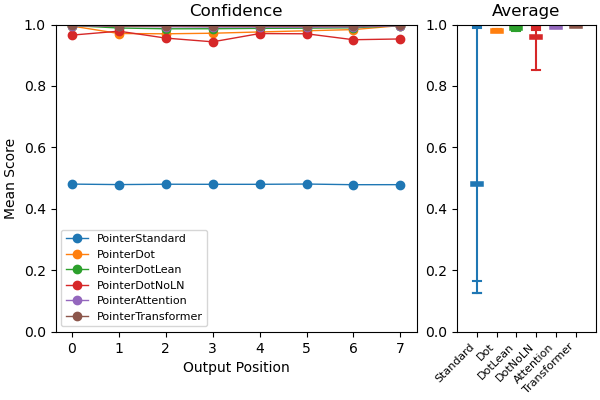
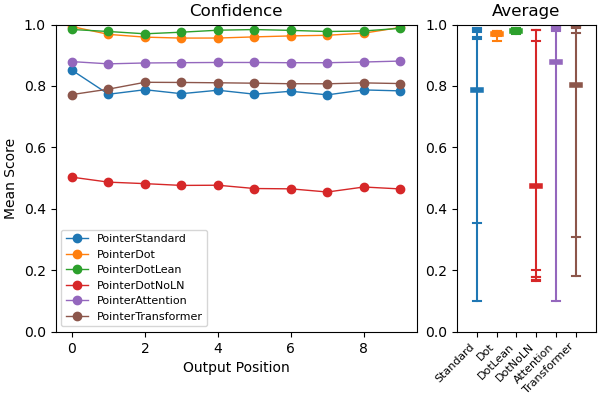
sequencer SL experiments

diff --git a/experiments/ptrArchComp_sequencer_SL.py b/experiments/ptrArchComp_sequencer_SL.py
@@ -1,0 +1,257 @@
+import sys
+import os
+
+# add path that contains the dominoes package
+mainPath = os.path.dirname(os.path.abspath(__file__)) + "/.."
+sys.path.append(mainPath)
+
+# standard imports
+from copy import copy
+import argparse
+from pathlib import Path
+from tqdm import tqdm
+import numpy as np
+import scipy as sp
+import matplotlib.pyplot as plt
+import matplotlib as mpl
+import torch
+import torch.cuda as torchCuda
+
+# dominoes package
+from dominoes import functions as df
+from dominoes import datasets
+from dominoes import training
+from dominoes import transformers
+
+device = 'cuda' if torchCuda.is_available() else 'cpu'
+
+# general variables for experiment
+POINTER_METHODS = ['PointerStandard', 'PointerDot', 'PointerDotLean', 'PointerDotNoLN', 'PointerAttention', 'PointerTransformer']
+
+# can edit this for each machine it's being used on
+savePath = Path('.') / 'experiments' / 'savedNetworks'
+resPath = Path(mainPath) / 'experiments' / 'savedResults'
+prmsPath = Path(mainPath) / 'experiments' / 'savedParameters'
+figsPath = Path(mainPath) / 'docs' / 'media'
+
+for path in (resPath, prmsPath, figsPath, savePath):
+    if not(path.exists()):
+        path.mkdir()
+        
+# method for returning the name of the saved network parameters (different save for each possible opponent)
+def getFileName(extra=None):
+    baseName = "ptrArchComp_sequencer_SL"
+    if extra is not None:
+        baseName = baseName + f"_{extra}"
+    return baseName
+
+def handleArguments():
+    parser = argparse.ArgumentParser(description='Run pointer dominoe sequencing experiment.')
+    parser.add_argument('-hd','--highest-dominoe', type=int, default=9, help='the highest dominoe in the board')
+    parser.add_argument('-hs','--hand-size', type=int, default=12, help='the maximum tokens per sequence')
+    parser.add_argument('-bs','--batch-size',type=int, default=128, help='number of sequences per batch')
+    parser.add_argument('-ne','--train-epochs',type=int, default=12000, help='the number of training epochs')
+    parser.add_argument('-te','--test-epochs',type=int, default=1000, help='the number of testing epochs')
+    parser.add_argument('-nr','--num-runs',type=int, default=8, help='how many runs for each network to train')
+
+    parser.add_argument('--embedding_dim', type=int, default=96, help='the dimensions of the embedding')
+    parser.add_argument('--heads', type=int, default=8, help='the number of heads in transformer layers')
+    parser.add_argument('--expansion', type=int, default=2, help='the expansion at the MLP part of the transformer')
+    parser.add_argument('--encoding-layers', type=int, default=2, help='the number of stacked transformers in the encoder')
+    parser.add_argument('--greedy', default=False, action='store_true', help='if used, will generate greedy predictions of each step rather than probability-weighted predictions')
+    parser.add_argument('--justplot', default=False, action='store_true', help='if used, will only plot the saved results (results have to already have been run and saved)')
+    parser.add_argument('--nosave', default=False, action='store_true')
+    
+    args = parser.parse_args()
+
+    return args
+    
+    
+def trainTestModel():
+    # get values from the argument parser
+    highestDominoe = args.highest_dominoe
+    listDominoes = df.listDominoes(highestDominoe)
+
+    handSize = args.hand_size
+    batchSize = args.batch_size
+    null_token = True # using a null token to indicate end of line
+    available_token = True # using available token to indicate which value to start on 
+    num_output = copy(handSize)+1 # always require end on null token
+    ignore_index = -1
+
+    # other batch parameters
+    batchSize = args.batch_size
+    
+    # network parameters
+    input_dim = (2 if not(available_token) else 3)*(highestDominoe+1) + (1 if null_token else 0)
+    embedding_dim = args.embedding_dim
+    heads = args.heads
+    encoding_layers = args.encoding_layers
+    contextual_encoder = True # don't transform the available token
+    greedy = args.greedy
+    
+    # train parameters
+    trainEpochs = args.train_epochs
+    testEpochs = args.test_epochs
+    numRuns = args.num_runs
+
+    numNets = len(POINTER_METHODS)
+    
+    print(f"Doing training...")
+    trainLoss = torch.zeros((trainEpochs, numNets, numRuns))
+    testLoss = torch.zeros((testEpochs, numNets, numRuns))
+    for run in range(numRuns):
+        print(f"Training round of networks {run+1}/{numRuns}...")
+        
+        # create pointer networks with different pointer methods
+        nets = [transformers.PointerNetwork(input_dim, embedding_dim, pointer_method=POINTER_METHOD, 
+                                            contextual_encoder=contextual_encoder, thompson=False, 
+                                            encoding_layers=encoding_layers, heads=heads, kqnorm=True, 
+                                            decoder_method='transformer', greedy=greedy)
+                for POINTER_METHOD in POINTER_METHODS]
+        nets = [net.to(device) for net in nets]
+
+        # Create an optimizer, Adam with weight decay is pretty good
+        optimizers = [torch.optim.Adam(net.parameters(), lr=1e-3, weight_decay=1e-5) for net in nets]
+
+        for epoch in tqdm(range(trainEpochs)):
+            # generate input batch
+            batch = datasets.generateBatch(highestDominoe, listDominoes, batchSize, handSize, return_target=True, null_token=null_token,
+                                        available_token=available_token, ignore_index=ignore_index, return_full=True)
+
+            # unpack batch tuple
+            input, target, _, _, _, selection, available = batch
+
+            # move to correct device
+            input, target = input.to(device), target.to(device)
+
+            # divide input into main input and context
+            x, context = input[:, :-1].contiguous(), input[:, [-1]] # input [:, [-1]] is context token
+            input = (x, context)
+            
+            # zero gradients, get output of network
+            for opt in optimizers: opt.zero_grad()
+            log_scores, choices = map(list, zip(*[net(input, max_output=num_output) for net in nets]))
+
+            # measure loss with negative log-likelihood
+            unrolled = [log_score.view(-1, log_score.size(-1)) for log_score in log_scores]
+            loss = [torch.nn.functional.nll_loss(unroll, target.view(-1), ignore_index=ignore_index)
+                    for unroll in unrolled]
+            for i, l in enumerate(loss):
+                assert not np.isnan(l.item()), f"model type {POINTER_METHODS[i]} diverged :("
+
+            # update networks
+            for l in loss: l.backward()
+            for opt in optimizers: opt.step()
+                
+            # save training data
+            for i, l in enumerate(loss):
+                trainLoss[epoch, i, run] = l.item()
+                    
+        
+        with torch.no_grad():
+            print('Testing network...')
+            for epoch in tqdm(range(testEpochs)):
+                # generate input batch
+                batch = datasets.generateBatch(highestDominoe, listDominoes, batchSize, handSize, return_target=True, null_token=null_token,
+                                            available_token=available_token, ignore_index=ignore_index, return_full=True)
+
+                # unpack batch tuple
+                input, target, _, _, _, selection, available = batch
+
+                # move to correct device
+                input, target = input.to(device), target.to(device)
+
+                # divide input into main input and context
+                x, context = input[:, :-1].contiguous(), input[:, [-1]] # input [:, [-1]] is context token
+                input = (x, context)
+                
+                log_scores, choices = map(list, zip(*[net(input, max_output=num_output) for net in nets]))
+
+                # measure loss with negative log-likelihood
+                unrolled = [log_score.view(-1, log_score.size(-1)) for log_score in log_scores]
+                loss = [torch.nn.functional.nll_loss(unroll, target.view(-1), ignore_index=ignore_index)
+                        for unroll in unrolled]
+                    
+                # save testing data
+                for i, l in enumerate(loss):
+                    testLoss[epoch, i, run] = l.item()
+                
+                    
+    results = {
+        'trainLoss': trainLoss,
+        'testLoss': testLoss,
+    }
+    
+    return results, nets
+
+def plotResults(results, args):
+    numRuns = args.num_runs
+    cmap = mpl.colormaps['tab10']
+    
+    # make plot of loss trajectory
+    fig, ax = plt.subplots(1,2,figsize=(6,4), width_ratios=[2.6,1],layout='constrained')
+    for idx, name in enumerate(POINTER_METHODS):
+        cdata = sp.ndimage.median_filter(torch.mean(results['trainLoss'][:,idx], dim=1), size=(100,))
+        ax[0].plot(range(args.train_epochs), cdata, color=cmap(idx), lw=1.2, label=name)
+    ax[0].set_xlabel('Training Epoch')
+    ax[0].set_ylabel(f'Loss N={numRuns}')
+    ax[0].set_title('Training Performance')
+    ax[0].set_ylim(0, None)
+    ax[0].legend(loc='best')
+    yMin0, yMax0 = ax[0].get_ylim()
+    
+    xOffset = [-0.2, 0.2]
+    get_x = lambda idx: [xOffset[0]+idx, xOffset[1]+idx]
+    for idx, name in enumerate(POINTER_METHODS):
+        mnTestReward = torch.mean(results['testLoss'][:,idx], dim=0)
+        ax[1].plot(get_x(idx), [mnTestReward.mean(), mnTestReward.mean()], color=cmap(idx), lw=4, label=name)
+        for mtr in mnTestReward:
+            ax[1].plot(get_x(idx), [mtr, mtr], color=cmap(idx), lw=1.5)
+        ax[1].plot([idx,idx], [mnTestReward.min(), mnTestReward.max()], color=cmap(idx), lw=1.5)
+    ax[1].set_xticks(range(len(POINTER_METHODS)))
+    ax[1].set_xticklabels([pmethod[7:] for pmethod in POINTER_METHODS], rotation=45, ha='right', fontsize=8)
+    ax[1].set_ylabel(f'Loss N={numRuns}')
+    ax[1].set_title('Testing')
+    ax[1].set_xlim(-1, len(POINTER_METHODS))
+
+    if not(args.nosave):
+        plt.savefig(str(figsPath/getFileName()))
+    
+    plt.show()
+
+    
+if __name__=='__main__':
+    args = handleArguments()
+    
+    if not(args.justplot):
+        # train and test pointerNetwork 
+        results, nets = trainTestModel()
+        
+        # save results if requested
+        if not(args.nosave):
+            # Save agent parameters
+            for net, method in zip(nets, POINTER_METHODS):
+                save_name = f"{method}.pt"
+                torch.save(net, savePath / getFileName(extra=save_name))
+            # Save agent parameters
+            np.save(prmsPath / getFileName(), vars(args))
+            np.save(resPath / getFileName(), results)
+        
+    else:
+        prms = np.load(prmsPath / (getFileName()+'.npy'), allow_pickle=True).item()
+        assert prms.keys() <= vars(args).keys(), f"Saved parameters contain keys not found in ArgumentParser:  {set(prms.keys()).difference(vars(args).keys())}"
+        for (pk,pi), (ak,ai) in zip(prms.items(), vars(args).items()):
+            if pk=='justplot': continue
+            if pk=='nosave': continue
+            if prms[pk] != vars(args)[ak]:
+                print(f"Requested argument {ak}={ai} differs from saved, which is: {pk}={pi}. Using saved...")
+                setattr(args,pk,pi)
+        
+        results = np.load(resPath / (getFileName()+'.npy'), allow_pickle=True).item()
+        
+    plotResults(results, args)
+
+
+
+
